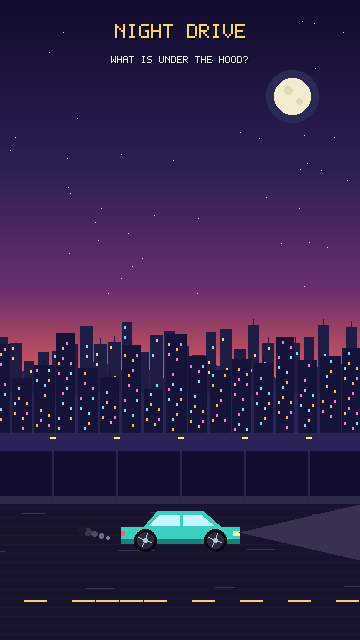
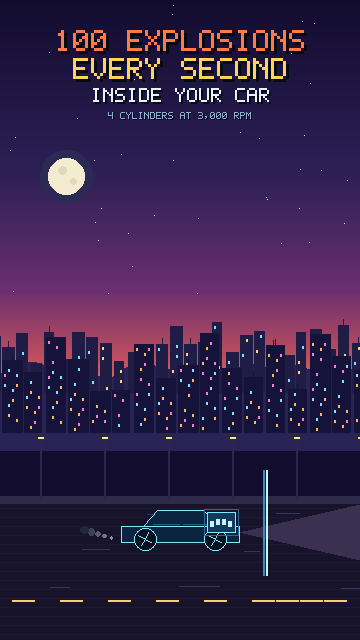
Tighten engine explainer for short-form retention
- Hook on frame 0: "100 explosions every second inside your car"
  (4 cylinders at 3,000 rpm), no fade from black
- X-ray scan reveals a firing 4-cylinder engine in the car, then a
  nearest-neighbour dive into the engine bay before the cutaway
- Intro cut from 8s to 3.6s, part labels in 1.8s, 3.75s per stroke
- Ignition flash, stronger kick and BANG! pop on the power stroke
- Ramp pays off the hook number; end card adds a follow prompt
- Last frames dissolve back to frame 0 so the video loops (28.7s total)

Claude-Session: https://claude.ai/code/session_019dJg2D8tk4srAVZKgvqSny

diff --git a/scripts/render_engine_explainer.py b/scripts/render_engine_explainer.py
@@ -358,11 +358,11 @@ def draw_car(img, f, theta, speed):
 
 # ---------------------------------------------------------------- UI
 def draw_labels(d, t):
-    items = [(1.1, 'SPARK PLUG', 226, 86, 184, 90, '#ffd35a'),
-             (1.5, 'VALVES', 14, 106, 152, 142, '#6fe0ff'),
-             (1.9, 'PISTON', 16, 214, 152, 222, '#e8eff4'),
-             (2.3, 'CYLINDER', 262, 196, 240, 200, '#6a8fae'),
-             (2.7, 'CRANKSHAFT', 252, 308, 214, 294, '#f0a040')]
+    items = [(0.15, 'SPARK PLUG', 226, 86, 184, 90, '#ffd35a'),
+             (0.45, 'VALVES', 14, 106, 152, 142, '#6fe0ff'),
+             (0.75, 'PISTON', 16, 214, 152, 222, '#e8eff4'),
+             (1.05, 'CYLINDER', 262, 196, 240, 200, '#6a8fae'),
+             (1.35, 'CRANKSHAFT', 252, 308, 214, 294, '#f0a040')]
     for t0, s, x, y, lx, ly, c in items:
         if t > t0:
             tx = x if x < 180 else x
@@ -375,7 +375,7 @@ def draw_labels(d, t):
 def draw_ui(img, f, t, th, ph, rs):
     d = ImageDraw.Draw(img)
     # title
-    if t < 3.2:
+    if t < ENGINE_INTRO:
         text(d, 'HOW AN ENGINE', 0, 14, 3, '#ffd35a', center=True)
         text(d, 'WORKS', 0, 40, 3, '#ffd35a', center=True)
         text(d, '4-STROKE CYCLE', 0, 66, 1, '#6fe0ff', center=True)
@@ -393,26 +393,28 @@ def draw_ui(img, f, t, th, ph, rs):
         draw_arrow(d, int(th // 180) % 2 == 1, '#ffffff')
     # bottom panel
     if ph == 'intro':
-        text(d, 'ENGINE OFF', 0, 404, 3, '#8fb0cc', center=True)
+        text(d, 'MEET THE PARTS', 0, 404, 3, '#8fb0cc', center=True)
         for i, ln in enumerate(['A CYLINDER, A PISTON,', 'TWO VALVES, A SPARK PLUG', 'AND A CRANKSHAFT']):
             text(d, ln, 0, 440 + i * 18, 2, '#cfe3f3', center=True)
     elif slow:
         text(d, name, 0, 404, 3, col, center=True)
         for i, ln in enumerate(lines):
             text(d, ln, 0, 440 + i * 18, 2, '#e8f2fb', center=True)
+        if 360 <= th < 430:
+            text(d, 'BANG!', 248, 196, 3, '#ffd35a')
     elif ph == 'ramp1':
         text(d, 'SPEED IT UP', 0, 404, 3, '#ffd35a', center=True)
         for i, ln in enumerate(['SAME 4 STROKES', 'AGAIN AND AGAIN', 'FASTER AND FASTER']):
             text(d, ln, 0, 440 + i * 18, 2, '#e8f2fb', center=True)
     elif ph == 'ramp2':
-        text(d, 'EVERY MINUTE', 0, 404, 3, '#ff7a45', center=True)
-        for i, ln in enumerate(['THE CRANKSHAFT SPINS', '1,000 TO 6,000 TIMES', 'FROM TINY BLASTS']):
+        text(d, '100 PER SECOND', 0, 404, 3, '#ff7a45', center=True)
+        for i, ln in enumerate(['4 CYLINDERS AT 3,000 RPM', '= 100 BANGS A SECOND', 'THAT IS YOUR ENGINE']):
             text(d, ln, 0, 440 + i * 18, 2, '#e8f2fb', center=True)
     else:
         text(d, 'SUCK SQUEEZE', 0, 398, 3, '#6fe0ff', center=True)
         text(d, 'BANG BLOW', 0, 424, 3, '#ff7a45', center=True)
-        text(d, 'ONE POWER BURST', 0, 456, 2, '#e8f2fb', center=True)
-        text(d, 'EVERY 4 STROKES', 0, 474, 2, '#e8f2fb', center=True)
+        text(d, 'ONE BANG EVERY 4 STROKES', 0, 456, 2, '#e8f2fb', center=True)
+        text(d, 'FOLLOW FOR PART 2', 0, 476, 2, '#ffd35a', center=True)
     # progress pips
     for i in range(4):
         x0 = 30 + i * 75
@@ -433,25 +435,29 @@ def draw_ui(img, f, t, th, ph, rs):
 
 
 # ---------------------------------------------------------------- timeline
+ENGINE_INTRO = 1.8           # seconds of part labels before the crank turns
+SLOW_W = 48.0                # deg/s for the explained cycle: 3.75s per stroke
+
+
 def build_timeline():
     thetas, phases = [], []
     th, f, rs = 0.0, 0, None
     while True:
         t = f / FPS
         if rs is None:
-            w = 36 * smooth((t - 3.2) / 0.5) if t >= 3.2 else 0.0
-            ph = 'intro' if t < 3.2 else 'slow'
+            w = SLOW_W * smooth((t - ENGINE_INTRO) / 0.4) if t >= ENGINE_INTRO else 0.0
+            ph = 'intro' if t < ENGINE_INTRO else 'slow'
             if th >= 720:
                 rs = t
         if rs is not None:
             u = t - rs
-            if u < 6.5:
-                w = 36 + (900 - 36) * smooth(u / 4.0)
-                ph = 'ramp1' if u < 3.2 else 'ramp2'
+            if u < 5.0:
+                w = SLOW_W + (900 - SLOW_W) * smooth(u / 3.0)
+                ph = 'ramp1' if u < 2.4 else 'ramp2'
             else:
-                w = 900 - 750 * smooth((u - 6.5) / 2.5)
+                w = 900 - 750 * smooth((u - 5.0) / 2.5)
                 ph = 'end'
-            if u > 10.2:
+            if u > 8.0:
                 break
         thetas.append(th); phases.append(ph)
         th += w / FPS; f += 1
@@ -473,16 +479,20 @@ def render(f, thetas, phases, rs):
         if k > 0.35:
             region = img.crop((0, 60, W, 380))
             img.paste(region, (dx, 60 + dy))
-    elif ph == 'slow' and 361 <= th % 720 < 369:
-        region = img.crop((0, 60, W, 380)); img.paste(region, (0, 61))
+    elif ph == 'slow' and 361 <= th % 720 < 380:                    # ignition kick
+        region = img.crop((0, 60, W, 380)); img.paste(region, ((f % 2) * 4 - 2, 60 + f % 3 - 1))
     draw_ui(img, f, t, th, ph, rs)
+    if ph == 'slow' and 360 <= th < 372:                              # ignition flash
+        img = Image.blend(img, Image.new('RGB', (W, H), (255, 240, 200)), 0.55 * (1 - (th - 360) / 12))
     return img
 
 
 # ---------------------------------------------------------------- night drive intro
-INTRO_S = 8
-N_INTRO = INTRO_S * FPS
-CUT_F = 15                                   # frames of pixel dissolve into the engine
+INTRO_S = 3.6
+N_INTRO = int(INTRO_S * FPS)
+CUT_F = 8                                    # frames of pixel dissolve (into the engine, and back for the loop)
+SCAN = (0.5, 2.0)                            # x-ray sweep across the car (s)
+ZOOM_START = 2.6                             # dive into the engine bay
 SKY_STOPS = [(0, '#120c2e'), (170, '#2c1f55'), (290, '#6a2f6e'), (360, '#c2505e'), (400, '#f0884a')]
 SKY_IMG = Image.new('RGB', (W, H), hexrgb(SKY_STOPS[0][1]))
 _sky = ImageDraw.Draw(SKY_IMG)
@@ -554,17 +564,17 @@ def hero_car(d, cx, cy, f):
         d.ellipse((wx - 2, cy - 11, wx + 2, cy - 7), fill='#b7c4d0')
 
 
-def drive(f):
+def drive_scene(f):
     t = f / FPS
     img = SKY_IMG.copy()
     d = ImageDraw.Draw(img)
     for x, y, ph in DRIVE_STARS:
         if math.sin(t * 3 + ph) > -0.3:
             d.point((x, y), fill='#e6e0ff')
-    d.ellipse((266, 70, 318, 122), fill='#2a2a55')                    # moon + glow
-    d.ellipse((274, 78, 310, 114), fill='#f3ecd0')
-    d.ellipse((284, 86, 292, 94), fill='#e0d8b8')
-    d.ellipse((296, 98, 302, 104), fill='#e0d8b8')
+    d.ellipse((40, 150, 92, 202), fill='#2a2a55')                     # moon + glow
+    d.ellipse((48, 158, 84, 194), fill='#f3ecd0')
+    d.ellipse((58, 166, 66, 174), fill='#e0d8b8')
+    d.ellipse((70, 178, 76, 184), fill='#e0d8b8')
     dist = f * 2.4                                                     # constant cruising speed
     mountains(d, dist)
     city(d, dist * 0.5, 392, 14, 26, 70, '#1f1c45', ['#ffd27a', '#7fe0ff'], 0.12, 1)
@@ -583,23 +593,72 @@ def drive(f):
         rect(d, x, y, x + 14 + (i * 13) % 30, y, '#3a3360')
     hero_car(d, 121, 548, f)
     d.polygon([(239, 532), (W, 504), (W, 560)], fill='#3a3050')        # headlight beam
-    if t >= 0.6:
-        text(d, 'NIGHT DRIVE', 0, 24, 2, '#ffd35a', center=True)
-    if t >= 3.4:
-        text(d, 'WHAT IS UNDER THE HOOD?', 0, 56, 1, '#e8f2fb', center=True)
-    fade = min(1.0, t / 0.5)
-    if fade < 1:
-        img = Image.eval(img, lambda v: int(v * fade))
+    if t >= SCAN[0]:                                                   # x-ray sweep reveals the engine
+        sx = int(W * smooth((t - SCAN[0]) / (SCAN[1] - SCAN[0])))
+        if sx > 0:
+            xr = img.copy()
+            hero_car_xray(ImageDraw.Draw(xr), 121, 548, f)
+            img.paste(xr.crop((0, 0, sx, H)), (0, 0))
+        if sx < W:
+            rect(d, sx - 3, 470, sx - 2, 575, '#3a8acc'); rect(d, sx, 470, sx + 1, 575, '#c8f8ff')
     return img
 
 
+def hero_car_xray(d, cx, cy, f):
+    cy += round(math.sin(f * 0.7))
+    line, fill = '#7fe8ff', '#0b2440'
+    d.polygon([(cx + 22, cy - 22), (cx + 36, cy - 38), (cx + 82, cy - 38), (cx + 100, cy - 22)], fill=fill, outline=line)
+    d.rectangle((cx, cy - 22, cx + 118, cy - 6), fill=fill, outline=line)
+    for x0, x1 in ((cx + 32, cx + 58), (cx + 62, cx + 88)):
+        d.line((x0, cy - 24, x1, cy - 24), fill='#2a5a80')
+    for wx in (cx + 24, cx + 94):
+        d.ellipse((wx - 11, cy - 20, wx + 11, cy + 2), fill='#06121f', outline=line)
+        for j in range(4):
+            ang = f * 0.5 + j * math.pi / 2
+            d.line((wx, cy - 9, wx + math.cos(ang) * 8, cy - 9 + math.sin(ang) * 8), fill=line)
+    ex, ey = cx + 86, cy - 36                                          # glowing 4-cylinder engine in the hood
+    d.rectangle((ex - 3, ey - 3, ex + 31, ey + 23), outline='#2a6a9a')
+    d.rectangle((ex, ey, ex + 28, ey + 20), fill='#123a5c', outline=line)
+    for i in range(4):
+        s = math.sin(f * 1.6 + (0, math.pi, math.pi, 0)[i])
+        px0, off = ex + 3 + i * 6, round(3 * s)
+        if s < -0.7 and (f // 4 + i) % 2 == 0:
+            rect(d, px0 - 1, ey + 2, px0 + 4, ey + 6, '#ffb040')
+        rect(d, px0, ey + 8 + off, px0 + 3, ey + 13 + off, '#c8f4ff')
+
+
+def drive(f):
+    t = f / FPS
+    img = drive_scene(f)
+    if t >= ZOOM_START:                                                # nearest-neighbour dive into the engine bay
+        u = smooth((t - ZOOM_START) / (INTRO_S - ZOOM_START))
+        z = 1 + 5 * u * u
+        tx, ty = 221, 522                                              # engine bay of the x-rayed car
+        bw, bh = W / z, H / z
+        x0 = min(max(tx - bw / 2, 0), W - bw); y0 = min(max(ty - bh / 2, 0), H - bh)
+        return img.crop((round(x0), round(y0), round(x0 + bw), round(y0 + bh))).resize((W, H), Image.NEAREST)
+    d = ImageDraw.Draw(img)                                            # hook: on screen from frame 0
+    text(d, '100 EXPLOSIONS', 0, 30, 3, '#ff7a45', center=True)
+    text(d, 'EVERY SECOND', 0, 58, 3, '#ffd35a', center=True)
+    text(d, 'INSIDE YOUR CAR', 0, 88, 2, '#e8f2fb', center=True)
+    if t > 1.0:
+        text(d, '4 CYLINDERS AT 3,000 RPM', 0, 112, 1, '#8fb0cc', center=True)
+    return img
+
+
+def dissolve(a, b, k):
+    """Bayer pixel dissolve from a to b, k in (0, 1]."""
+    return Image.composite(b, a, BAYER_TILE.point(lambda v: 255 if v < k * 256 else 0))
+
+
 def frame_at(f, thetas, phases, rs):
+    total = N_INTRO + len(thetas)
     if f < N_INTRO - CUT_F:
         return drive(f)
-    if f < N_INTRO:                                                    # pixel dissolve into the engine
-        k = (f - (N_INTRO - CUT_F) + 1) / (CUT_F + 1)
-        mask = BAYER_TILE.point(lambda v: 255 if v < k * 256 else 0)
-        return Image.composite(render(0, thetas, phases, rs), drive(f), mask)
+    if f < N_INTRO:                                                    # into the engine
+        return dissolve(drive(f), render(0, thetas, phases, rs), (f - (N_INTRO - CUT_F) + 1) / (CUT_F + 1))
+    if f >= total - CUT_F:                                             # back to frame 0 so the video loops
+        return dissolve(render(f - N_INTRO, thetas, phases, rs), drive(0), (f - (total - CUT_F) + 1) / (CUT_F + 1))
     return render(f - N_INTRO, thetas, phases, rs)
 
 
@@ -612,8 +671,7 @@ def main():
     thetas, phases, rs = build_timeline()
     total = N_INTRO + len(thetas)
     if args.sheet:
-        picks = [40, 120, 200, N_INTRO - 4, N_INTRO + 30, N_INTRO + 75, N_INTRO + 120, N_INTRO + 200, N_INTRO + 270,
-                 N_INTRO + 330, N_INTRO + 390, N_INTRO + 520, N_INTRO + 700, total - 15]
+        picks = [int(s * FPS) for s in (0, 1.0, 1.7, 2.4, 3.0, 3.4, 4.3, 5.2, 7.5, 11, 14.2, 18, 21.5, 25)] + [total - 4]
         picks = [p for p in picks if p < total]
         tiles = [frame_at(p, thetas, phases, rs) for p in picks]
         cols = 7
@@ -628,7 +686,7 @@ def main():
     if not shutil.which('ffmpeg'):
         raise SystemExit('FFmpeg not found. Install FFmpeg first.')
     dest = Path(args.out); dest.parent.mkdir(parents=True, exist_ok=True)
-    frame_at(int(4 * FPS), thetas, phases, rs).save(args.poster)
+    frame_at(int(1.5 * FPS), thetas, phases, rs).save(args.poster)
     cmd = ['ffmpeg', '-hide_banner', '-loglevel', 'error', '-y', '-f', 'rawvideo', '-vcodec', 'rawvideo',
            '-pix_fmt', 'rgb24', '-s', f'{W}x{H}', '-r', str(FPS), '-i', '-', '-an',
            '-vf', 'scale=1080:1920:flags=neighbor,format=yuv420p', '-c:v', 'libx264', '-preset', 'medium',
